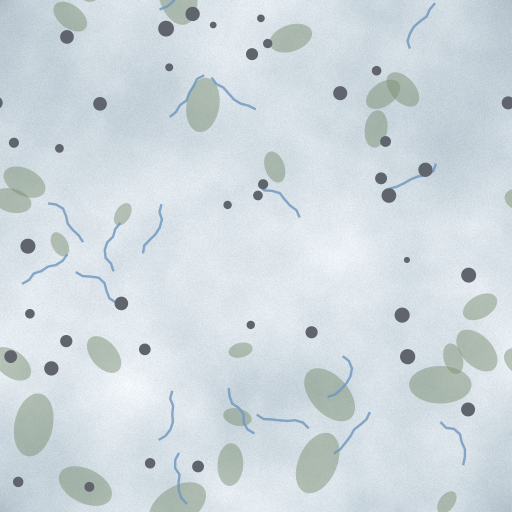
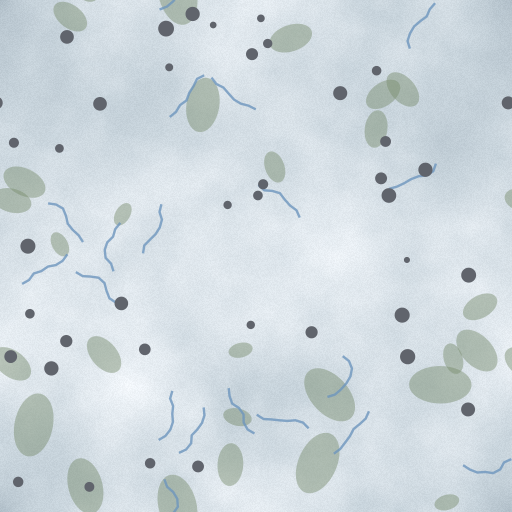
fix(ah-d9jb.2): wrapped shapes repeat exactly at the seam; contact sheets left out of the precache
Claude-Session: https://claude.ai/code/session_01TJAiF2XiNravbZf3RB3rYt

diff --git a/scripts/biomeShapes.ts b/scripts/biomeShapes.ts
@@ -79,6 +79,16 @@ export function wrapDraw(x: number, y: number, r: number, draw: (x: number, y: n
   }
 }
 
+/**
+ * The value the first copy of a wrapped shape drew, for every copy. The mockup drew a fresh random
+ * value per copy, which never showed there (each hex was one untiled image) but cuts the shape at
+ * the seam once the map tiles the picture. Each copy still draws its value, and throws it away, so
+ * the random sequence - and so every other shape - stays the agreed one.
+ */
+function sameForEveryCopy<T>(first: T | undefined, drawn: T): T {
+  return first === undefined ? drawn : first;
+}
+
 const rgb = (c: readonly number[], a = 1) => `rgba(${c[0] | 0},${c[1] | 0},${c[2] | 0},${a})`;
 const FULL = 7;
 
@@ -304,10 +314,12 @@ const SHAPES: Record<Biome, (ctx: Painter, rng: Rng) => void> = {
       const x = rng() * TILE;
       const y = rng() * TILE;
       const r = 6 + rng() * 10;
+      let rotation: number | undefined;
       wrapDraw(x, y, r, (px, py) => {
         ctx.fillStyle = "rgba(120,140,110,0.45)";
         ctx.beginPath();
-        ctx.ellipse(px, py, r, r * 0.6, rng() * 3, 0, FULL);
+        rotation = sameForEveryCopy(rotation, rng() * 3);
+        ctx.ellipse(px, py, r, r * 0.6, rotation, 0, FULL);
         ctx.fill();
       });
     }
@@ -316,9 +328,11 @@ const SHAPES: Record<Biome, (ctx: Painter, rng: Rng) => void> = {
     for (let i = 0; i < 18; i += 1) {
       const x = rng() * TILE;
       const y = rng() * TILE;
+      let angle: number | undefined;
       wrapDraw(x, y, 30, (px, py) => {
         ctx.beginPath();
-        jaggedLine(ctx, random(i + 7), px, py, rng() * 6.3, 26, 4, 1.4);
+        angle = sameForEveryCopy(angle, rng() * 6.3);
+        jaggedLine(ctx, random(i + 7), px, py, angle, 26, 4, 1.4);
         ctx.stroke();
       });
     }
@@ -340,7 +354,8 @@ const SHAPES: Record<Biome, (ctx: Painter, rng: Rng) => void> = {
       const y = rng() * TILE;
       const angle = rng() * 6.3;
       const seed = i * 31 + 5;
-      wrapDraw(x, y, 50, (px, py) => {
+      // A crack reaches 45 units, its glow about 12 more (blur 8); the mockup's 50 cut the glow.
+      wrapDraw(x, y, 60, (px, py) => {
         for (const [width, colour, blur] of [
           [5, "rgba(255,80,10,0.5)", 8],
           [2.2, "rgb(255,150,40)", 0],
@@ -382,10 +397,13 @@ const SHAPES: Record<Biome, (ctx: Painter, rng: Rng) => void> = {
         .slice(0, 3);
       for (const [u, v, d] of near) {
         if (d < 60) {
+          let jitter: Pt | undefined;
           wrapDraw(x, y, 60, (px, py) => {
             ctx.beginPath();
             ctx.moveTo(px, py);
-            ctx.lineTo(px + (u - x) * 0.5 + (rng() - 0.5) * 6, py + (v - y) * 0.5 + (rng() - 0.5) * 6);
+            const drawn: Pt = [(rng() - 0.5) * 6, (rng() - 0.5) * 6];
+            jitter = sameForEveryCopy(jitter, drawn);
+            ctx.lineTo(px + (u - x) * 0.5 + jitter[0], py + (v - y) * 0.5 + jitter[1]);
             ctx.lineTo(px + u - x, py + v - y);
             ctx.stroke();
           });

diff --git a/scripts/svgPainter.ts b/scripts/svgPainter.ts
@@ -4,8 +4,9 @@
  *
  * The agreed pictures were drawn on a browser canvas in `docs/ui/ah-d9jb.2-shapes-set.html`; this
  * lets that drawing code be ported almost line for line, with no native canvas package to install.
- * Points are transformed by the current matrix as they are recorded, and arcs are sampled into
- * short line segments, so every shape comes out as a plain `<path>`.
+ * Points, gradients and line widths are transformed by the current matrix as they are recorded,
+ * and arcs are sampled into short line segments, so every shape comes out as a plain `<path>`.
+ * Only the calls the shapes make are here; a line width under a non-uniform scale is approximated.
  */
 
 type Matrix = readonly [number, number, number, number, number, number];
@@ -249,7 +250,14 @@ export class SvgPainter {
   }
 
   createRadialGradient(x0: number, y0: number, _r0: number, x1: number, y1: number, r1: number): RadialGradient {
-    const gradient = new RadialGradient(`g${this.gradients.length}`, [x0, y0], [x1, y1], r1);
+    // Placed by the transform current at creation; canvas uses the one current at fill time, which
+    // is the same for every gradient the shapes make (created and filled under one transform).
+    const gradient = new RadialGradient(
+      `g${this.gradients.length}`,
+      apply(this.state.matrix, x0, y0),
+      apply(this.state.matrix, x1, y1),
+      r1 * this.scale()
+    );
     this.gradients.push(gradient);
     return gradient;
   }
@@ -293,6 +301,12 @@ export class SvgPainter {
     return `b${number(blur).replace(".", "_")}`;
   }
 
+  /** How much the current transform enlarges a length (rotation and translation leave it be). */
+  private scale(): number {
+    const [a, b, c, d] = this.state.matrix;
+    return Math.sqrt(Math.abs(a * d - b * c));
+  }
+
   private untransformedLast(): Point {
     const last = this.subpaths.at(-1)?.points.at(-1) ?? [0, 0];
     const [a, b, c, d, e, f] = this.state.matrix;
@@ -334,7 +348,7 @@ export class SvgPainter {
       return `<path d="${d}" fill="${colour}"${opacityText}${extra}/>`;
     }
     return (
-      `<path d="${d}" fill="none" stroke="${colour}"${opacityText} stroke-width="${number(this.state.lineWidth)}" ` +
+      `<path d="${d}" fill="none" stroke="${colour}"${opacityText} stroke-width="${number(this.state.lineWidth * this.scale())}" ` +
       `stroke-linecap="${this.state.lineCap}" stroke-linejoin="${this.state.lineJoin}"${extra}/>`
     );
   }

diff --git a/scripts/biomeShapes.test.ts b/scripts/biomeShapes.test.ts
@@ -53,6 +53,36 @@ describe("the Shapes texture set", () => {
     expect(corner).toHaveLength(4);
   });
 
+  it("draws every shape that crosses an edge again, identically, on the far side (ah-d9jb.2 review)", () => {
+    // The map tiles each picture inside a rotated hex, so a copy that differs from its original -
+    // another angle, another jitter - shows as a cut shape at the seam.
+    const near = (a: number, b: number) => Math.abs(a - b) < 0.01;
+    for (const biome of BIOMES) {
+      const paths = [...drawShapes(biome).toSvg(TILE).matchAll(/ d="([^"]*)"/g)].map((match) =>
+        [...match[1].matchAll(/[ML](-?[\d.]+) (-?[\d.]+)/g)].map((point) => [Number(point[1]), Number(point[2])])
+      );
+      for (const points of paths) {
+        const spills = points.some(([x, y]) => x < 0 || x > TILE || y < 0 || y > TILE);
+        if (!spills) {
+          continue;
+        }
+        const copied = paths.some(
+          (other) =>
+            other !== points &&
+            other.length === points.length &&
+            [-TILE, 0, TILE].some((dx) =>
+              [-TILE, 0, TILE].some(
+                (dy) =>
+                  (dx !== 0 || dy !== 0) &&
+                  other.every(([x, y], index) => near(x, points[index][0] + dx) && near(y, points[index][1] + dy))
+              )
+            )
+        );
+        expect(copied, `${biome}: ${JSON.stringify(points.slice(0, 2))}`).toBe(true);
+      }
+    }
+  });
+
   it("uses Standard's colours, with mountain's rock made much darker", () => {
     for (const biome of BIOMES) {
       if (biome !== "mountain") {

diff --git a/scripts/svgPainter.test.ts b/scripts/svgPainter.test.ts
@@ -106,6 +106,17 @@ describe("SvgPainter (the canvas subset the Shapes set is drawn with)", () => {
     expect(body(painter)).toContain(`fill="url(#${id})"`);
   });
 
+  it("places a gradient made under a transform where the transform puts it (ah-d9jb.2 review)", () => {
+    const painter = new SvgPainter(256);
+    painter.translate(100, 50);
+    painter.rotate(Math.PI / 2);
+    const gradient = painter.createRadialGradient(0, -2, 1, 0, 0, 6);
+    gradient.addColorStop(0, "rgb(1,1,1)");
+    painter.fillStyle = gradient;
+    painter.fillRect(-6, -6, 12, 12);
+    expect(painter.toSvg(256)).toMatch(/cx="100" cy="50" r="6" fx="102" fy="50"/);
+  });
+
   it("draws a glow as a blurred copy in the shadow colour beneath the shape", () => {
     const painter = new SvgPainter(256);
     painter.shadowColor = "rgba(255,90,0,0.9)";

diff --git a/apps/web/vite.config.ts b/apps/web/vite.config.ts
@@ -72,6 +72,10 @@ export default defineConfig({
         // man-counts exact rather than estimated. Without them the installed app opens offline and
         // is useless, which is worse than not opening at all.
         globPatterns: ["**/*.{js,css,html,ico,png,svg,wasm,json}"],
+        // The biome generator's contact sheets (`all_biomes.png`, one per texture set) are for
+        // whoever regenerates the textures; nothing in the app loads them, and each would add more
+        // than a megabyte to every install.
+        globIgnores: ["**/all_biomes.png"],
         // Headroom rather than a fix. The chunk carrying the map renderer and the orders editor is
         // around 290 KiB against Workbox's 2 MiB default - it was roughly 750 KiB until #58 took
         // the map off PixiJS - and nothing today is close, but the

diff --git a/tests/pwa/install.spec.ts b/tests/pwa/install.spec.ts
@@ -112,4 +112,19 @@ test("the workspace still opens with the network cut", async ({ page, context })
     return response.ok;
   });
   expect(rulesetOk).toBe(true);
+
+  // A texture set is chosen in Settings and drawn at once, offline too, so its pictures are
+  // precached (ah-d9jb.2) - but not the generator's contact sheets, which nothing loads and which
+  // would add megabytes to every install.
+  const served = (url: string) =>
+    page.evaluate(async (path) => {
+      try {
+        return (await fetch(path)).ok;
+      } catch {
+        return false;
+      }
+    }, url);
+  expect(await served("/biomes/shapes/mountain_512.png")).toBe(true);
+  expect(await served("/biomes/all_biomes.png")).toBe(false);
+  expect(await served("/biomes/shapes/all_biomes.png")).toBe(false);
 });
